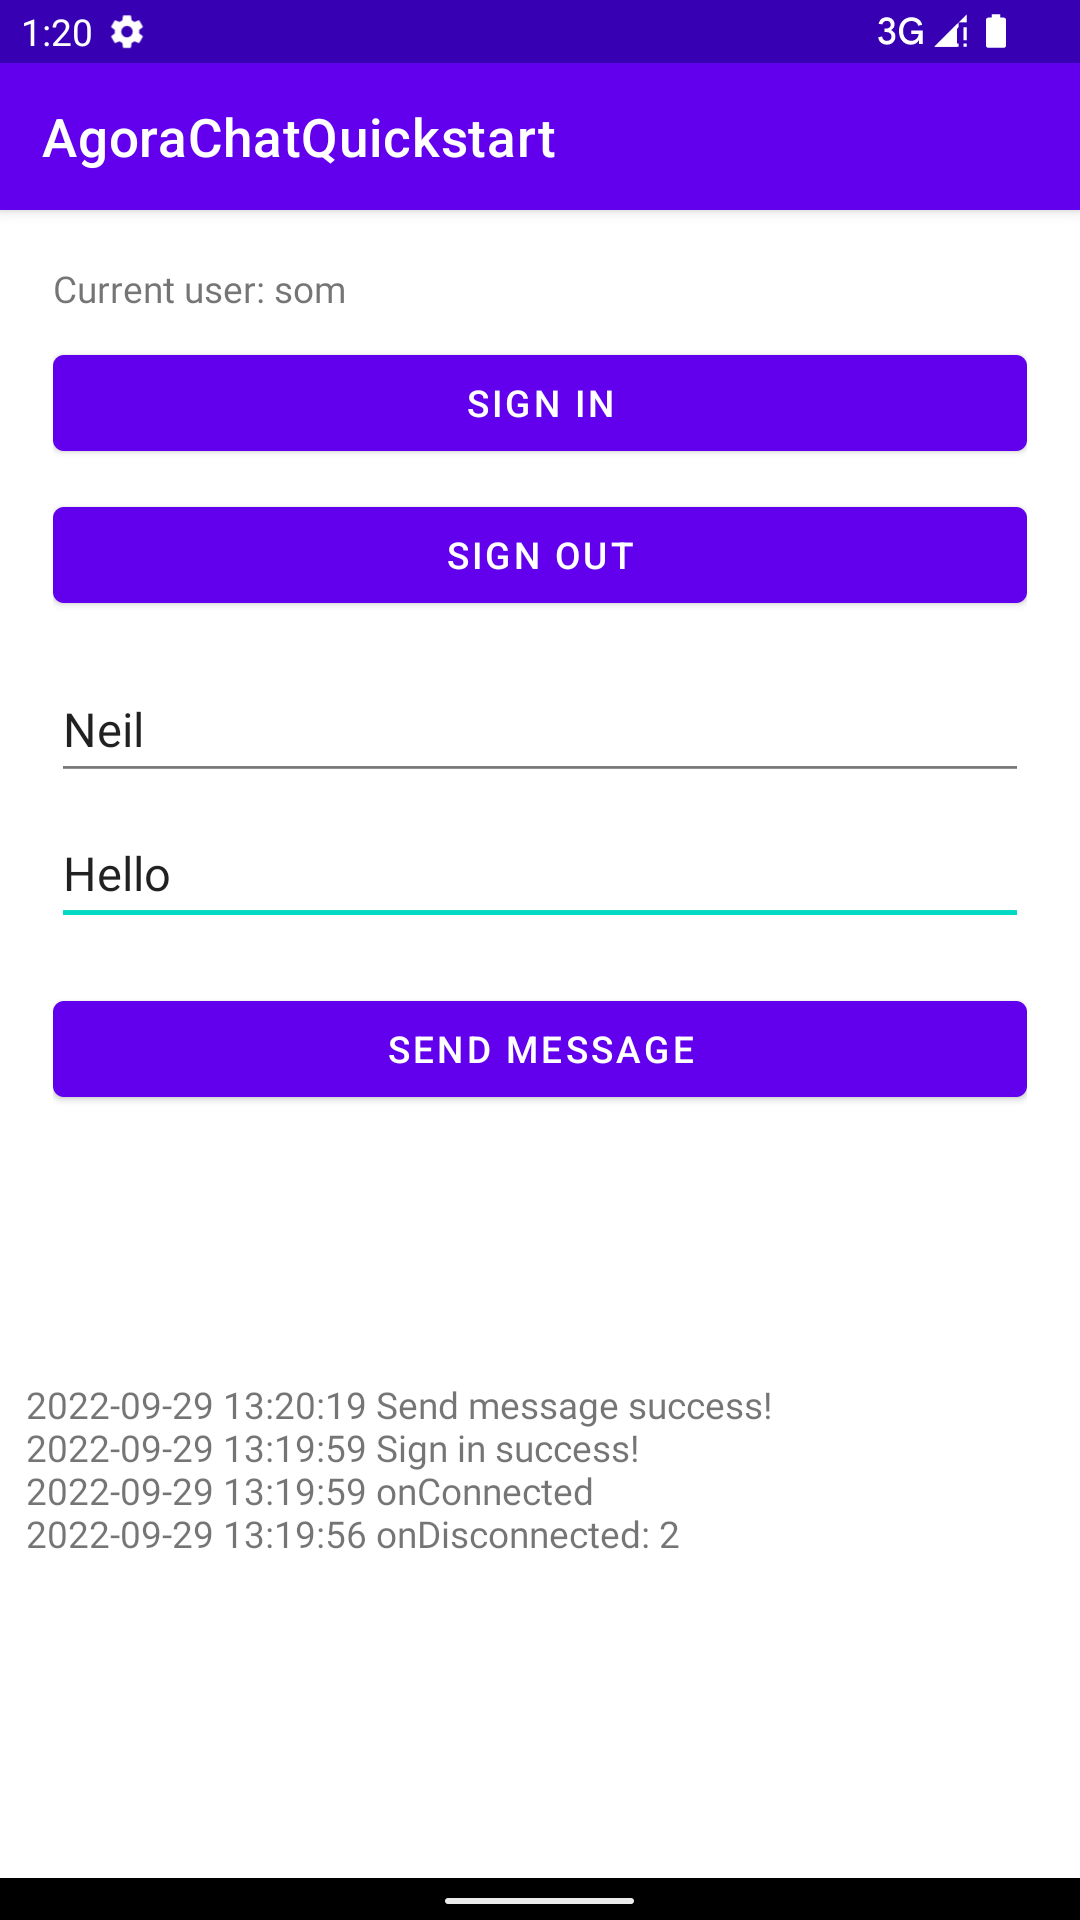
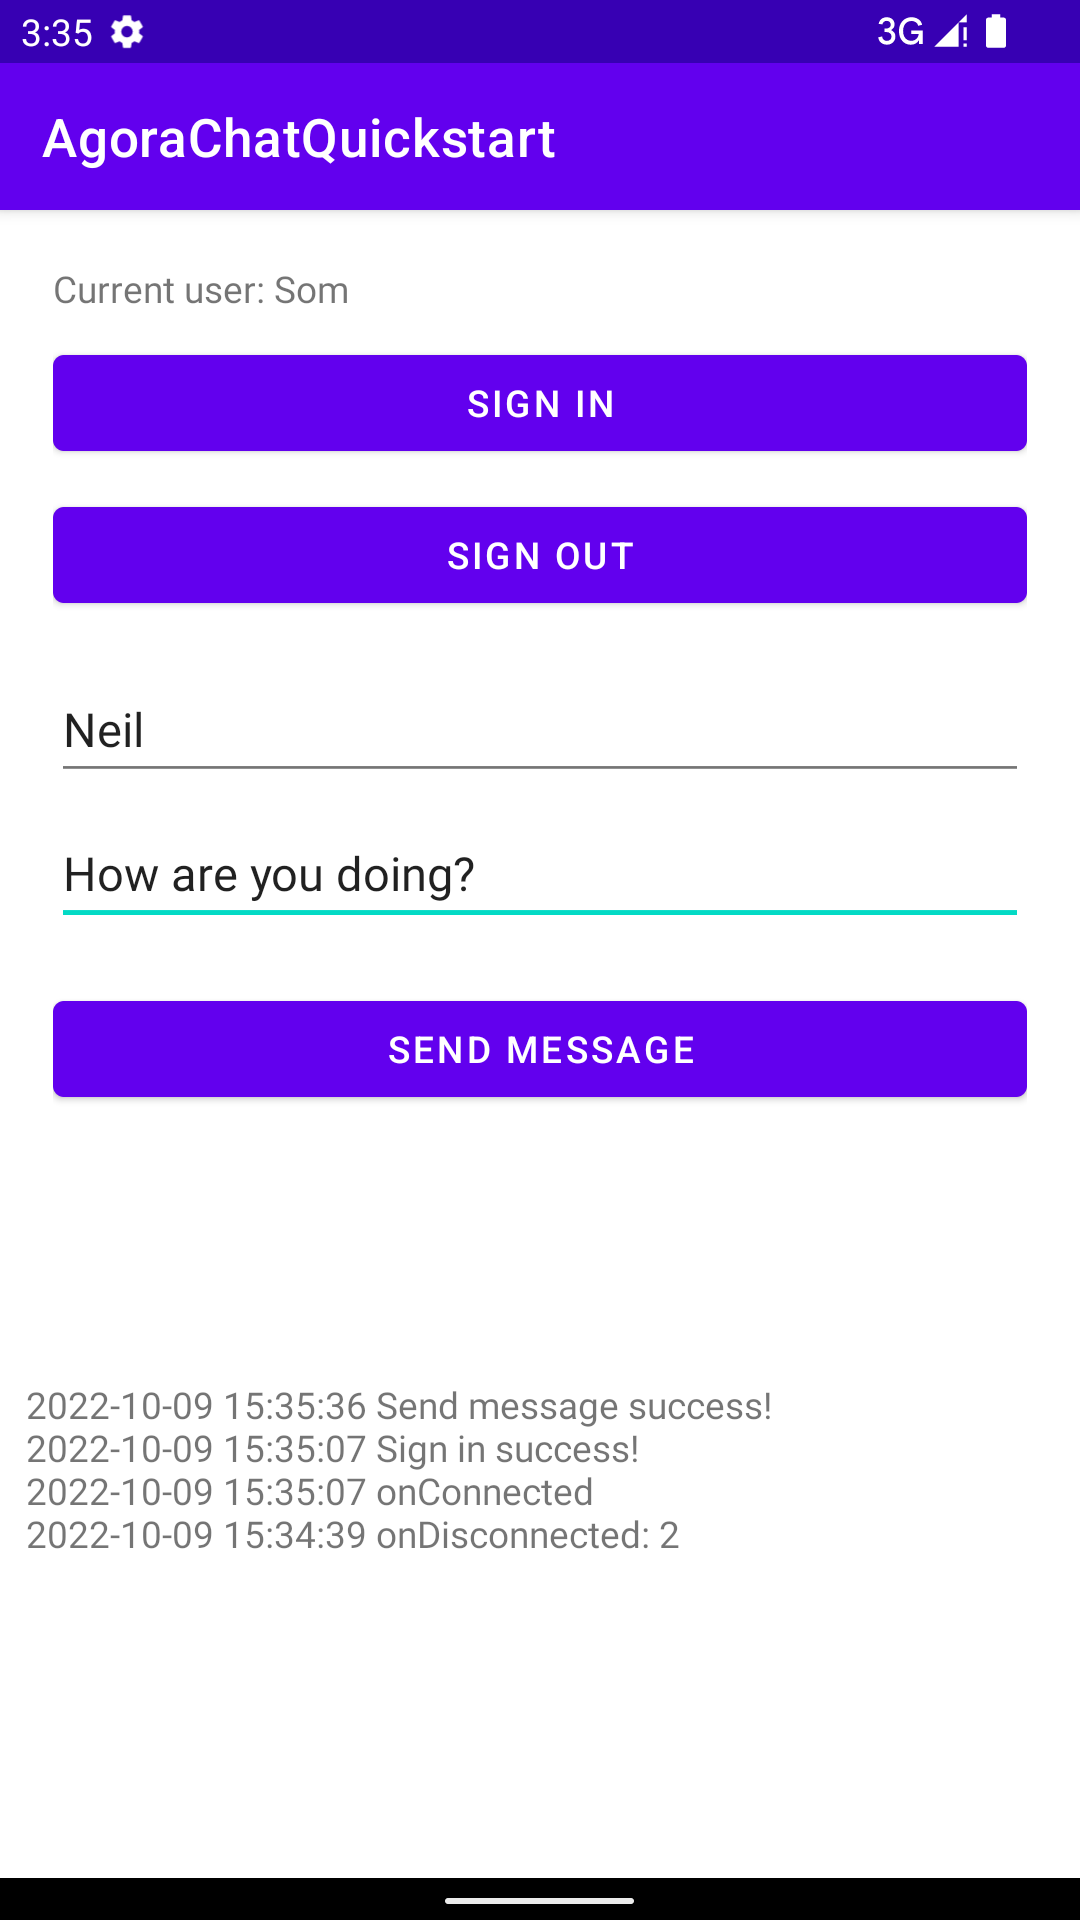
updates

diff --git a/en-US/markdown/agora-chat/Getting Started/agora_chat_get_started_android.md b/en-US/markdown/agora-chat/Getting Started/agora_chat_get_started_android.md
@@ -466,21 +466,22 @@ To show logs, add the following lines after the `sendFirstMessage` function:
 To validate the peer-to-peer messaging you have just integrated into your app using Agora Chat, perform the following operations:
 
 1. Log in  
-a. In the [`MainActivity`](#sign-in) file, replace the placeholders of `USERNAME`, `TOKEN`, and `APP_KEY` to the user Id, Agora token, and App Key of the sender (Sam).  
+a. In the [`MainActivity`](#sign-in) file, replace the placeholders of `USERNAME`, `TOKEN`, and `APP_KEY` to the user Id, Agora token, and App Key of the sender (Som).  
 b. In **Android Studio**, select the device to run the project and click **Run 'app'**.  
 c. On your simulator or physical device, click **SIGN IN** to log in with the sender account.
-    ![](https://web-cdn.agora.io/docs-files/1665286366823)
+    ![](https://web-cdn.agora.io/docs-files/1665302124510)
 
 2. Send a message  
 Fill in the user ID of the receiver (Neil) in the **Enter another username** box, type in the message ("How are you doing?") to send in the **Enter content** box, and click **SEND MESSAGE** to send the message.
-   ![](https://web-cdn.agora.io/docs-files/1665286385063)
+   ![](https://web-cdn.agora.io/docs-files/1665302129604)
 
 3. Log out  
 Click **SIGN OUT** to log out of the sender account.
 
 4. Receive the message  
 a. After signing out, change the values of `USERNAME`, `TOKEN`, and `APP_KEY` to the user Id, Agora token, and App Key of the receiver (Neil) in the [`MainActivity`](#sign-in) file.  
-b. Run the app on another Android device or simulator with the receiver account and receive the message "How are you doing?" sent in step 2.
+b. Run the app on another Android device or simulator with the receiver account and receive the message "How are you doing?" sent in step 2.  
+    ![](https://web-cdn.agora.io/docs-files/1665302134132)
 
 
 ## Next Steps
